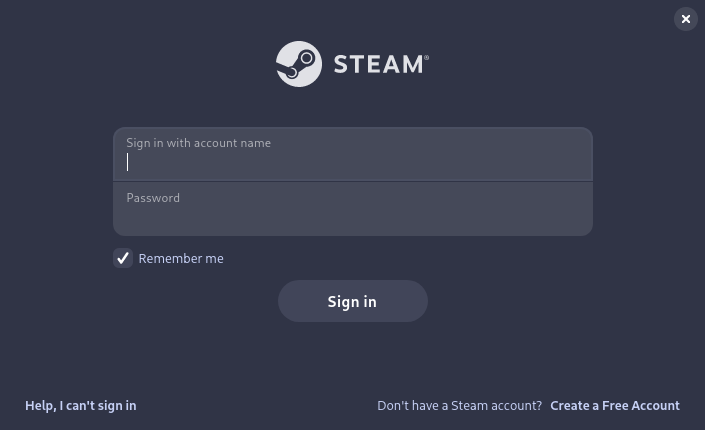
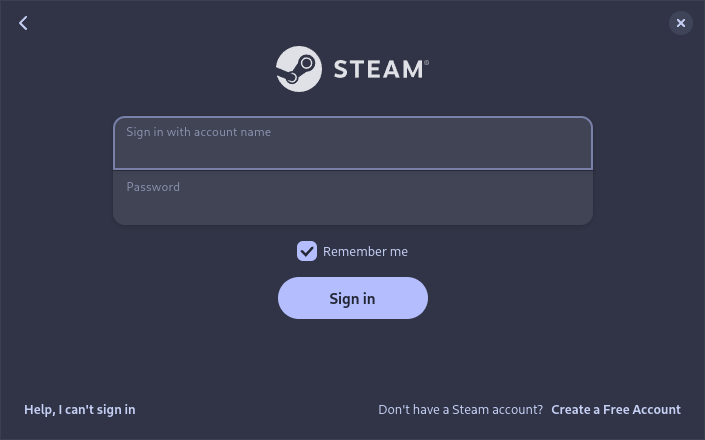
Color theme fixes and new previews (#302, #301)

diff --git a/adwaita/colorthemes/yaru/yaru.css b/adwaita/colorthemes/yaru/yaru.css
@@ -54,9 +54,9 @@
 	--adw-card-shade-a: 0.36 !important;
 
 	/* Icons */
[10 lines of base64/hex data omitted]
 }

diff --git a/adwaita/colorthemes/oled/oled.css b/adwaita/colorthemes/oled/oled.css
@@ -1,0 +1,32 @@
+:root {
+	/* Window */
+	--adw-window-bg-rgb: 0, 0, 0 !important;
+
+	/* Views - e.g. text view or tree view */
+	--adw-view-bg-rgb: 0, 0, 0 !important;
+
+	/* Header bar, search bar, tab bar */
+	--adw-headerbar-bg-rgb: 0, 0, 0 !important;
+	--adw-headerbar-shade-rgb: 0, 0, 0 !important;
+	--adw-headerbar-darker-shade-rgb: 0, 0, 0 !important;
+
+	/* Split pane views */
+	--adw-sidebar-bg-rgb: 0, 0, 0 !important;
+	--adw-sidebar-backdrop-rgb: 0, 0, 0 !important;
+	--adw-sidebar-shade-rgb: 0, 0, 0 !important;
+
+	--adw-secondary-sidebar-bg-rgb: 0, 0, 0 !important;
+
+	/* Dialogs */
+	--adw-dialog-bg-rgb: 0, 0, 0 !important;
+
+	/* Popovers */
+	--adw-popover-bg-rgb: 0, 0, 0 !important;
+	--adw-popover-shade-rgb: 0, 0, 0 !important;
+
+	/* Thumbnails */
+	--adw-thumbnail-bg-rgb: 0, 0, 0 !important;
+
+	/* Miscellaneous */
+	--adw-shade-rgb: 0, 0, 0 !important;
+}

diff --git a/adwaita/css/main/headerbar/headerbar.css b/adwaita/css/main/headerbar/headerbar.css
@@ -37,6 +37,12 @@ body.DesktopUI div._1ENHEsrSLcTRtPQFl1F-wL::after
 	z-index: 999;
 }
 
+body.DesktopUI div[class*="steamdesktop_Wrapper_"].Maximized::after,
+body.DesktopUI div._1ENHEsrSLcTRtPQFl1F-wL.Maximized::after
+{
+	border: 1px transparent solid;
+}
+
 /* Focus Bar */
 body.DesktopUI div[class*="steamdesktop_Wrapper_"] > div[class*="steamdesktop_FocusBar_"],
 body.DesktopUI div._1ENHEsrSLcTRtPQFl1F-wL > div._3pXasCUulX4jjqO79s4q_F

diff --git a/adwaita/css/widgets/dialogs.css b/adwaita/css/widgets/dialogs.css
@@ -13,6 +13,12 @@ html.client_chat_frame div#popup_target::after
 	z-index: 999;
 }
 
+body.DesktopUI div#popup_target:has(div._1ENHEsrSLcTRtPQFl1F-wL.Maximized)::after,
+html.client_chat_frame div#popup_target:has(div._1ENHEsrSLcTRtPQFl1F-wL.Maximized)::after
+{
+	border: 1px transparent solid;
+}
+
 body.DesktopUI .ModalPosition_TopBar,
 body.DesktopUI .singleWindowFocusBar,
 body.DesktopUI .title-area .title-area-highlight,

diff --git a/README.md b/README.md
@@ -25,81 +25,43 @@ A skin to make Steam look more like a native GNOME app
 
 <details><summary>Color theme previews</summary>
 
-### Adwaita
-
-![Adwaita](/adwaita/colorthemes/adwaita/preview.png?raw=true)
-
-### Breeze
-
-![Breeze](/adwaita/colorthemes/breeze/preview.png?raw=true)
-
-### Canta
-
-![Canta](/adwaita/colorthemes/canta/preview.png?raw=true)
-
-### Catppuccin-Frappe
-
-![Catppuccin-Frappe](/adwaita/colorthemes/catppuccin-frappe/preview.png?raw=true)
-
-### Catppuccin-Macchiato
-
-![Catppuccin-Macchiato](/adwaita/colorthemes/catppuccin-macchiato/preview.png?raw=true)
-
-### Catppuccin-Mocha
-
-![Catppuccin-Mocha](/adwaita/colorthemes/catppuccin-mocha/preview.png?raw=true)
-
-### Dracula
-
-![Dracula](/adwaita/colorthemes/dracula/preview.png?raw=true)
-
-### Everforest
-
-![Everforest](/adwaita/colorthemes/everforest/preview.png?raw=true)
-
-### Gruvbox
-
-![Gruvbox](/adwaita/colorthemes/gruvbox/preview.png?raw=true)
-
-### Kate
-
-![Kate](/adwaita/colorthemes/kate/preview.png?raw=true)
-
-### Metro
-
-![Metro](/adwaita/colorthemes/metro/preview.png?raw=true)
-
-### Nord
-
-![Nord](/adwaita/colorthemes/nord/preview.png?raw=true)
-
-### One Pro
-
-![One Pro](/adwaita/colorthemes/one-pro/preview.png?raw=true)
-
-### Pop
-
-![Pop](/adwaita/colorthemes/pop/preview.png?raw=true)
-
-### Tokyo Night
-
-![Tokyo Night](/adwaita/colorthemes/tokyo-night/preview.png?raw=true)
-
-### Tomorrow Night
-
-![Tomorrow Night](/adwaita/colorthemes/tomorrow-night/preview.png?raw=true)
-
-### Vapor
-
-![Vapor](/adwaita/colorthemes/vapor/preview.png?raw=true)
-
-### VGUI2
-
-![VGUI2](/adwaita/colorthemes/vgui2/preview.png?raw=true)
-
-### Yaru
-
-![Yaru](/adwaita/colorthemes/yaru/preview.png?raw=true)
+<table>
+	<tr>
+		<td><img alt="adwaita" src="/adwaita/colorthemes/adwaita/preview.png?raw=true"><br/>adwaita</td>
+		<td><img alt="breeze" src="/adwaita/colorthemes/breeze/preview.png?raw=true"><br/>breeze</td>
+		<td><img alt="canta" src="/adwaita/colorthemes/canta/preview.png?raw=true"><br/>canta</td>
+	</tr>
+	<tr>
+		<td><img alt="catppuccin-frappe" src="/adwaita/colorthemes/catppuccin-frappe/preview.png?raw=true"><br/>catppuccin-frappe</td>
+		<td><img alt="catppuccin-macchiato" src="/adwaita/colorthemes/catppuccin-macchiato/preview.png?raw=true"><br/>catppuccin-macchiato</td>
+		<td><img alt="catppuccin-mocha" src="/adwaita/colorthemes/catppuccin-mocha/preview.png?raw=true"><br/>catppuccin-mocha</td>
+	</tr>
+	<tr>
+		<td><img alt="dracula" src="/adwaita/colorthemes/dracula/preview.png?raw=true"><br/>dracula</td>
+		<td><img alt="everforest" src="/adwaita/colorthemes/everforest/preview.png?raw=true"><br/>everforest</td>
+		<td><img alt="gruvbox" src="/adwaita/colorthemes/gruvbox/preview.png?raw=true"><br/>gruvbox</td>
+	</tr>
+	<tr>
+		<td><img alt="kate" src="/adwaita/colorthemes/kate/preview.png?raw=true"><br/>kate</td>
+		<td><img alt="metro" src="/adwaita/colorthemes/metro/preview.png?raw=true"><br/>metro</td>
+		<td><img alt="nord" src="/adwaita/colorthemes/nord/preview.png?raw=true"><br/>nord</td>
+	</tr>
+	<tr>
+		<td><img alt="oled" src="/adwaita/colorthemes/oled/preview.png?raw=true"><br/>oled</td>
+		<td><img alt="one-pro" src="/adwaita/colorthemes/one-pro/preview.png?raw=true"><br/>one-pro</td>
+		<td><img alt="pop" src="/adwaita/colorthemes/pop/preview.png?raw=true"><br/>pop</td>
+	</tr>
+	<tr>
+		<td><img alt="rose-pine" src="/adwaita/colorthemes/rose-pine/preview.png?raw=true"><br/>rose-pine</td>
+		<td><img alt="tokyo-night" src="/adwaita/colorthemes/tokyo-night/preview.png?raw=true"><br/>tokyo-night</td>
+		<td><img alt="tomorrow-night" src="/adwaita/colorthemes/tomorrow-night/preview.png?raw=true"><br/>tomorrow-night</td>
+	</tr>
+	<tr>
+		<td><img alt="vapor" src="/adwaita/colorthemes/vapor/preview.png?raw=true"><br/>vapor</td>
+		<td><img alt="vgui2" src="/adwaita/colorthemes/vgui2/preview.png?raw=true"><br/>vgui2</td>
+		<td><img alt="yaru" src="/adwaita/colorthemes/yaru/preview.png?raw=true"><br/>yaru</td>
+	</tr>
+</table>
 
 </details>
 
